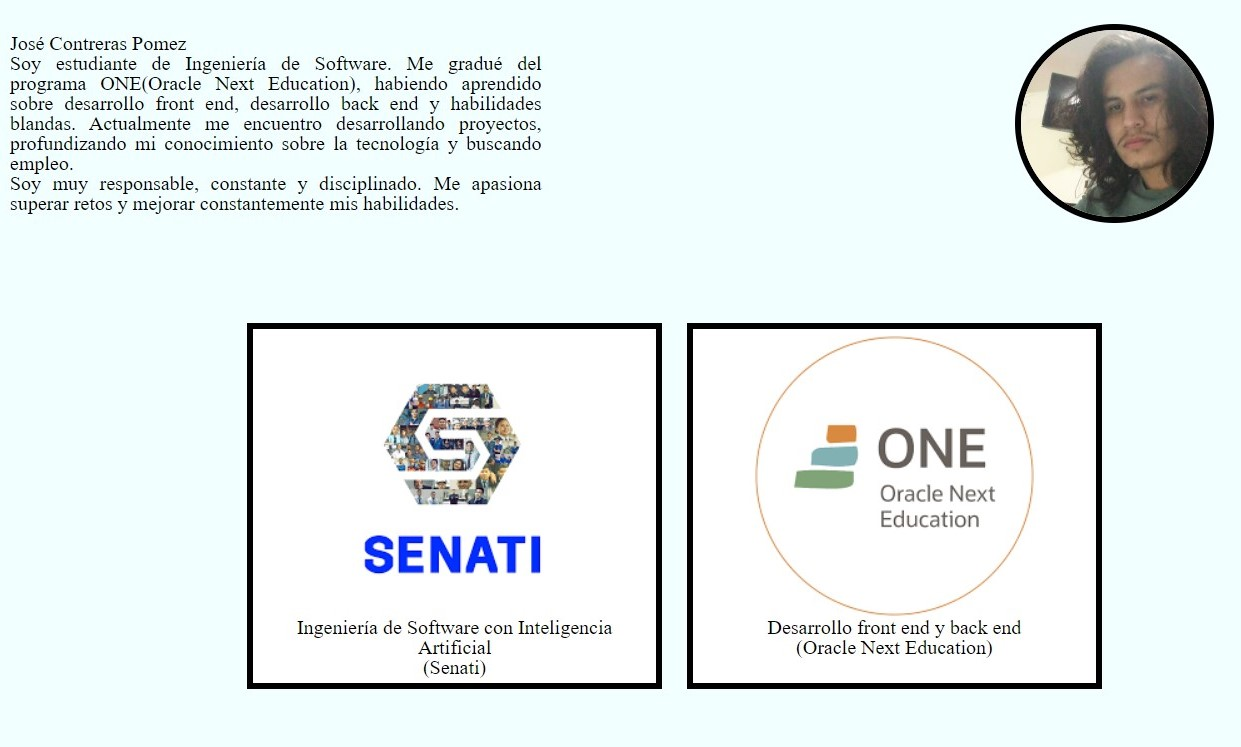
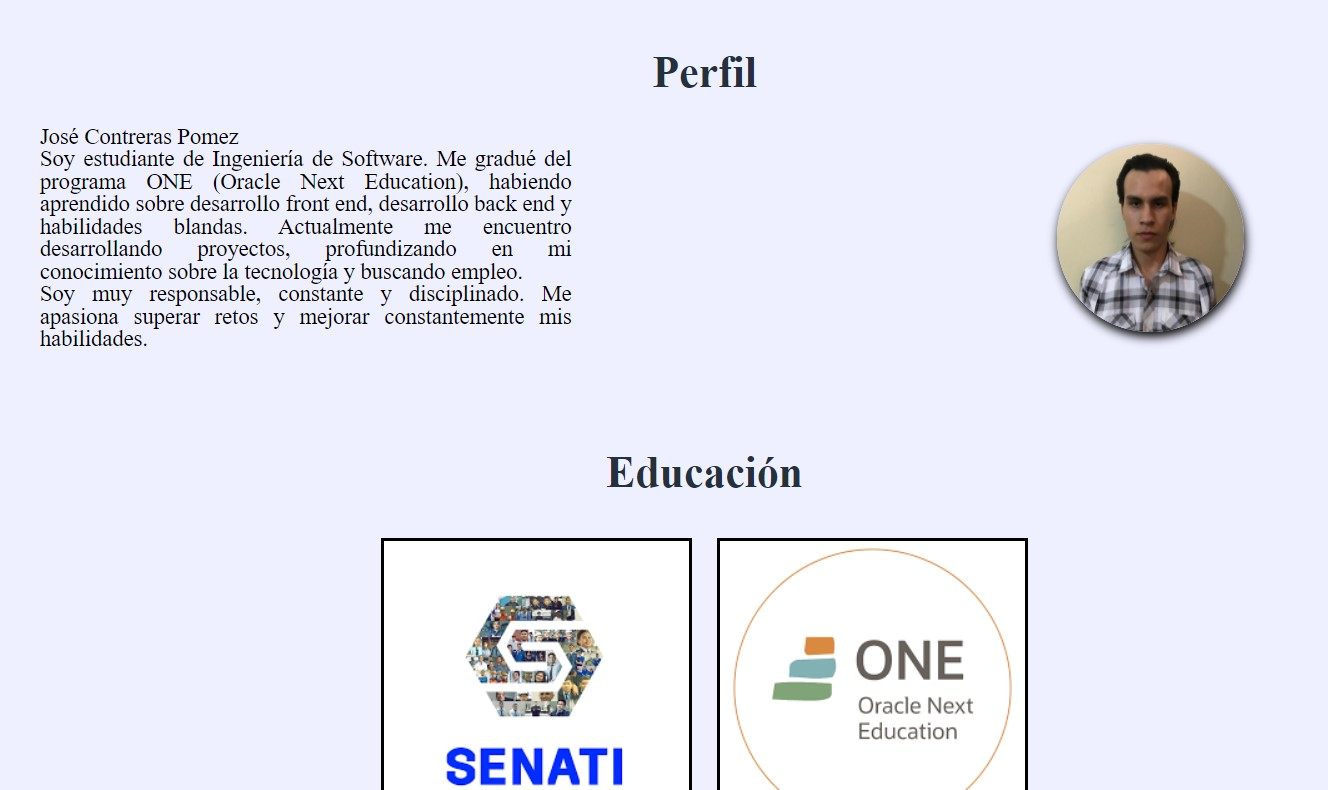
Cambiando foto de perfil

Changed region(s): [[0.0, 0.0308, 0.9799, 1.0], [0.4899, 0.0616, 0.5818, 0.1232]]

diff --git a/index.html b/index.html
@@ -33,7 +33,7 @@
                         <p>Soy estudiante de Ingeniería de Software. Me gradué del programa ONE (Oracle Next Education), habiendo aprendido sobre desarrollo front end, desarrollo back end y habilidades blandas. Actualmente me encuentro desarrollando proyectos, profundizando en mi conocimiento sobre la tecnología y buscando empleo.</p>
                         <p>Soy muy responsable, constante y disciplinado. Me apasiona superar retos y mejorar constantemente mis habilidades.</p>
                     </div>
-                    <img class="perfil__imagen" src="image/fotoperfil.jpeg" alt="foto de perfil">
+                    <img class="perfil__imagen" src="image/perfilfoto.jpeg" alt="foto de perfil">
             </div>
                 
             </div>
